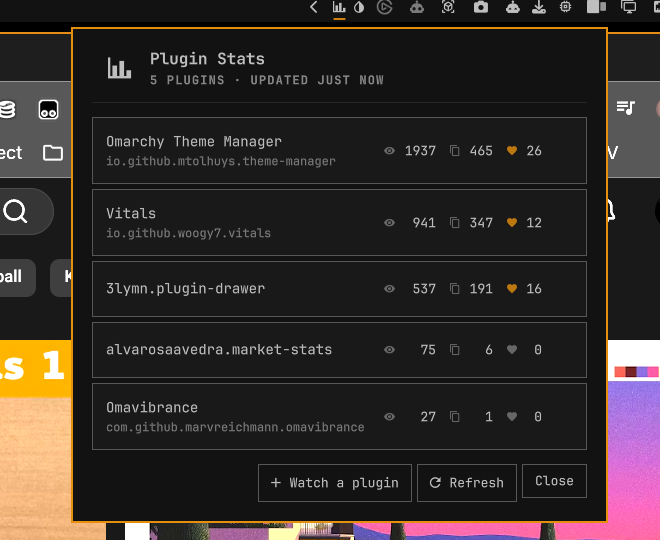
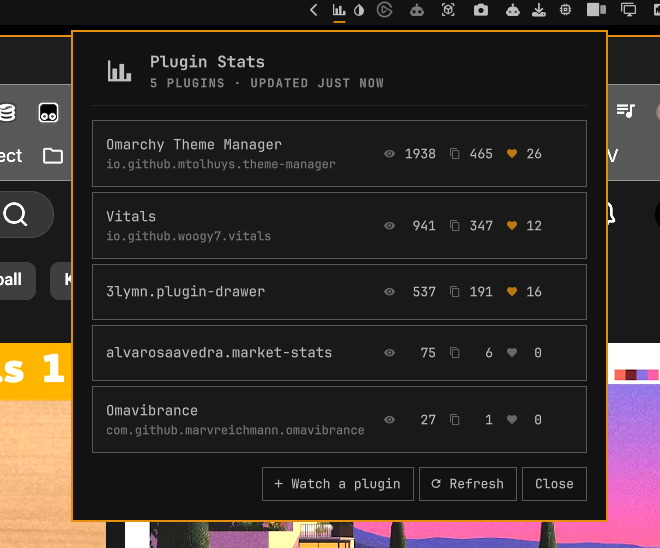
Match the footer button heights, and stop a second service instance eating the watchlist
Button sizes itself to its tallest content and the icon defaults to
Style.font.icon, so the two buttons carrying a mark stood taller than
Close. Pin their iconSize to the label size, as Tray.qml does.

Separately: two of these services can be alive at once — a shell restart
overlaps the outgoing shell, and editing an installed file rebuilds the
plugin under a running one. An instance that loaded before the state file
existed kept an empty watchlist and destroyed the real one on its next
flush, and every successful fetch is a flush. The state file is now
watched rather than read once, the cached counts are adopted only when the
file is newer than our own fetch, and add/remove flush immediately instead
of through the debounce.

Claude-Session: https://claude.ai/code/session_018Udmx2dffgGMPTLVCJijCF

diff --git a/Service.qml b/Service.qml
@@ -65,7 +65,7 @@ Item {
     var next = Model.addToWatchlist(watchlist, id)
     if (next.length === watchlist.length) return false
     watchlist = next
-    saveTimer.restart()
+    flushState()
     // A newly added id is usually already in the response we are holding, in
     // which case its row is populated before the user's finger leaves the key.
     if (!Model.statsFor(stats, id).known) refresh()
@@ -82,7 +82,7 @@ Item {
     var trimmed = ({})
     for (var i = 0; i < next.length; i++) if (names[next[i]] !== undefined) trimmed[next[i]] = names[next[i]]
     names = trimmed
-    saveTimer.restart()
+    flushState()
   }
 
   function setName(id, name) {
@@ -176,11 +176,19 @@ Item {
     try {
       var parsed = JSON.parse(text)
       if (parsed) {
+        // The watchlist is the user's own data and the file is where it lives,
+        // so whatever the file says wins — including when another instance of
+        // this service wrote it a moment ago.
         if (Array.isArray(parsed.watchlist)) root.watchlist = Model.normalizeWatchlist(parsed.watchlist)
-        var cached = Model.normalizeStats(parsed.stats)
-        if (cached) root.stats = cached
+        // The counts are only a cache, and ours is the better one: a fetch of
+        // our own holds every listing, while the file holds just the watched
+        // ones. Take the file's copy only when it is the newer of the two.
         var at = Number(parsed.fetchedAt)
-        if (Number.isFinite(at) && at > 0) root.fetchedAt = at
+        if (Number.isFinite(at) && at > root.fetchedAt) {
+          var cached = Model.normalizeStats(parsed.stats)
+          if (cached) root.stats = cached
+          root.fetchedAt = at
+        }
       }
     } catch (e) {
       // No file, or a corrupt one: an empty watchlist is the correct starting
@@ -201,13 +209,21 @@ Item {
     }, null, 2) + "\n")
   }
 
+  // Watched, not read once. Two of these services can be alive at the same
+  // moment — a shell restart overlaps the outgoing one, and a plugin reload
+  // rebuilds the service under a running shell — and without this the instance
+  // that started first keeps an empty watchlist and destroys the real one with
+  // its next flush. Adopting the file instead makes the last writer win.
   FileView {
     id: stateFile
     path: root.statePath
-    watchChanges: false
+    watchChanges: true
     atomicWrites: true
     printErrors: false
     onLoaded: root.loadState(text())
+    // The text carried by the change signal is the stale one, so both paths go
+    // through reload() → onLoaded to parse what is actually on disk now.
+    onFileChanged: reload()
     // First run: the file does not exist yet. Without this branch `stateLoaded`
     // never flips and nothing is ever written.
     onLoadFailed: root.loadState("")

diff --git a/Panel.qml b/Panel.qml
@@ -443,6 +443,10 @@ Panel {
             foreground: root.foreground
             fontFamily: root.fontFamily
             fontSize: Style.font.bodySmall
+            // Button sizes itself to its tallest content, and the icon defaults
+            // to Style.font.icon — larger than the label. Left alone, the two
+            // buttons carrying a mark come out taller than Close.
+            iconSize: Style.font.bodySmall
             // U+F0415 nf-md-plus
             iconText: "\udb81\udc15"
             tooltipText: "Add a plugin id to the watchlist"
@@ -460,6 +464,7 @@ Panel {
             foreground: root.foreground
             fontFamily: root.fontFamily
             fontSize: Style.font.bodySmall
+            iconSize: Style.font.bodySmall
             // U+F0450 nf-md-refresh
             iconText: "\udb81\udc50"
             iconSpinning: root.service ? root.service.loading : false

diff --git a/CLAUDE.md b/CLAUDE.md
@@ -148,6 +148,21 @@ Four files, one direction of data flow:
 - Only the watched ids are persisted (`Model.pickStats`). Writing the whole
   response would put 160 KB of unrelated plugins in the state file on every
   fetch.
+- **Two of these services can be alive at once** — a shell restart overlaps the
+  outgoing shell, and editing an installed file rebuilds the plugin under a
+  running one. The state file is therefore watched (`watchChanges: true` +
+  `onFileChanged: reload()`), not read once. Without that, an instance that
+  loaded before the file existed keeps an empty watchlist and destroys the real
+  one on its next flush — and every successful fetch is a flush, so it happens
+  without the user touching anything. `tests/` cannot see this; the repro is a
+  second Quickshell instance writing the file underneath a running one.
+- `loadState` adopts the file's watchlist unconditionally (it is the user's
+  data, and the file is where it lives) but takes its cached counts only when
+  `fetchedAt` is newer than ours — a fetch of our own holds every listing, the
+  file only the watched ones.
+- `add()` and `remove()` flush immediately rather than through `saveTimer`. A
+  discrete user action must not sit in a debounce window where an external
+  reload can swallow it; the timer is there for the fetch.
 - `remove()` drops the id's name along with it. The name map is only ever read
   through the watchlist, so a leftover entry is invisible — and would be written
   to the state file forever.
